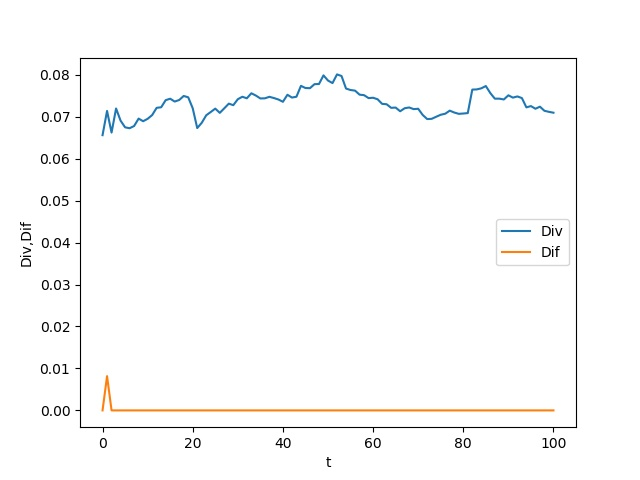
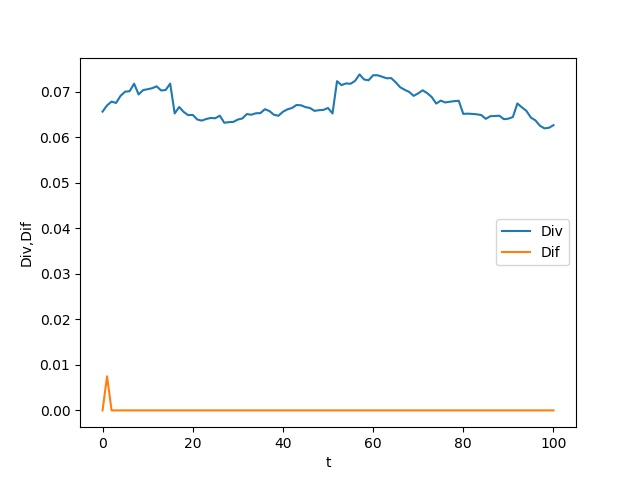
finish

diff --git a/func.py b/func.py
@@ -33,7 +33,7 @@ t_p1 = 80
 # 供应站到现场平均临时周转时间
 t_p2 = 500
 # 单元故障率
-lambda_cb = 1e-5 * np.asarray([120, 90, 30, 50, 50, 60, 40, 30])
+lambda_cb = 0.56 * 1e-5 * np.asarray([120, 90, 30, 50, 50, 60, 40, 30])
 # 单元拆装修复率
 mu_cb = 1 * np.asarray([2.50, 2.80, 3.33, 3.33, 3.80, 3.00, 3.60, 2.50])
 # 故障隔离率
@@ -372,8 +372,8 @@ def main2():
     Y = np.reshape(Y, [num_sample * num_sample])
     # Z = np.reshape(fvals, [num_sample, num_sample])
     surf = ax.scatter(X, Y, fvals)
-    ax.set_xlabel('i')
-    ax.set_ylabel('j')
+    ax.set_xlabel('x')
+    ax.set_ylabel('y')
     ax.set_zlabel('E')
     plt.show()
 

diff --git a/main.py b/main.py
@@ -7,5 +7,5 @@ if __name__ == '__main__':
     fpa.train()
     print('目标函数值和约束值', fpa.f_and_cons_list[-1])
     print('最优解', fpa.x_best_list[-1])
-    fpa.save('./output', axis=[20, 24], axis_name=['m3_2', 'm3_6'],
+    fpa.save('./output', axis=[0, 1], axis_name=['o1', 'o2'],
              f_and_cons_name=['E', 'PORS', 'MTTR', 'MTBF', 'MMDT', 'MLDT', 'Phi_k', 'mass'])

diff --git a/fpa.py b/fpa.py
@@ -242,7 +242,7 @@ class FlowerPollinationAlgorithm(object):
             r = i // 3
             c = i % 3
             l, = axes[r][c].plot(f_and_cons_list[:, i])
-            axes[r][c].legend(lines, f_and_cons_name[i])
+            axes[r][c].legend(f_and_cons_name[i])
             axes[r][c].set_xlabel('t')
 
         plt.savefig(os.path.join(path, '{}_f_and_cons.jpg'.format(self.name)))
